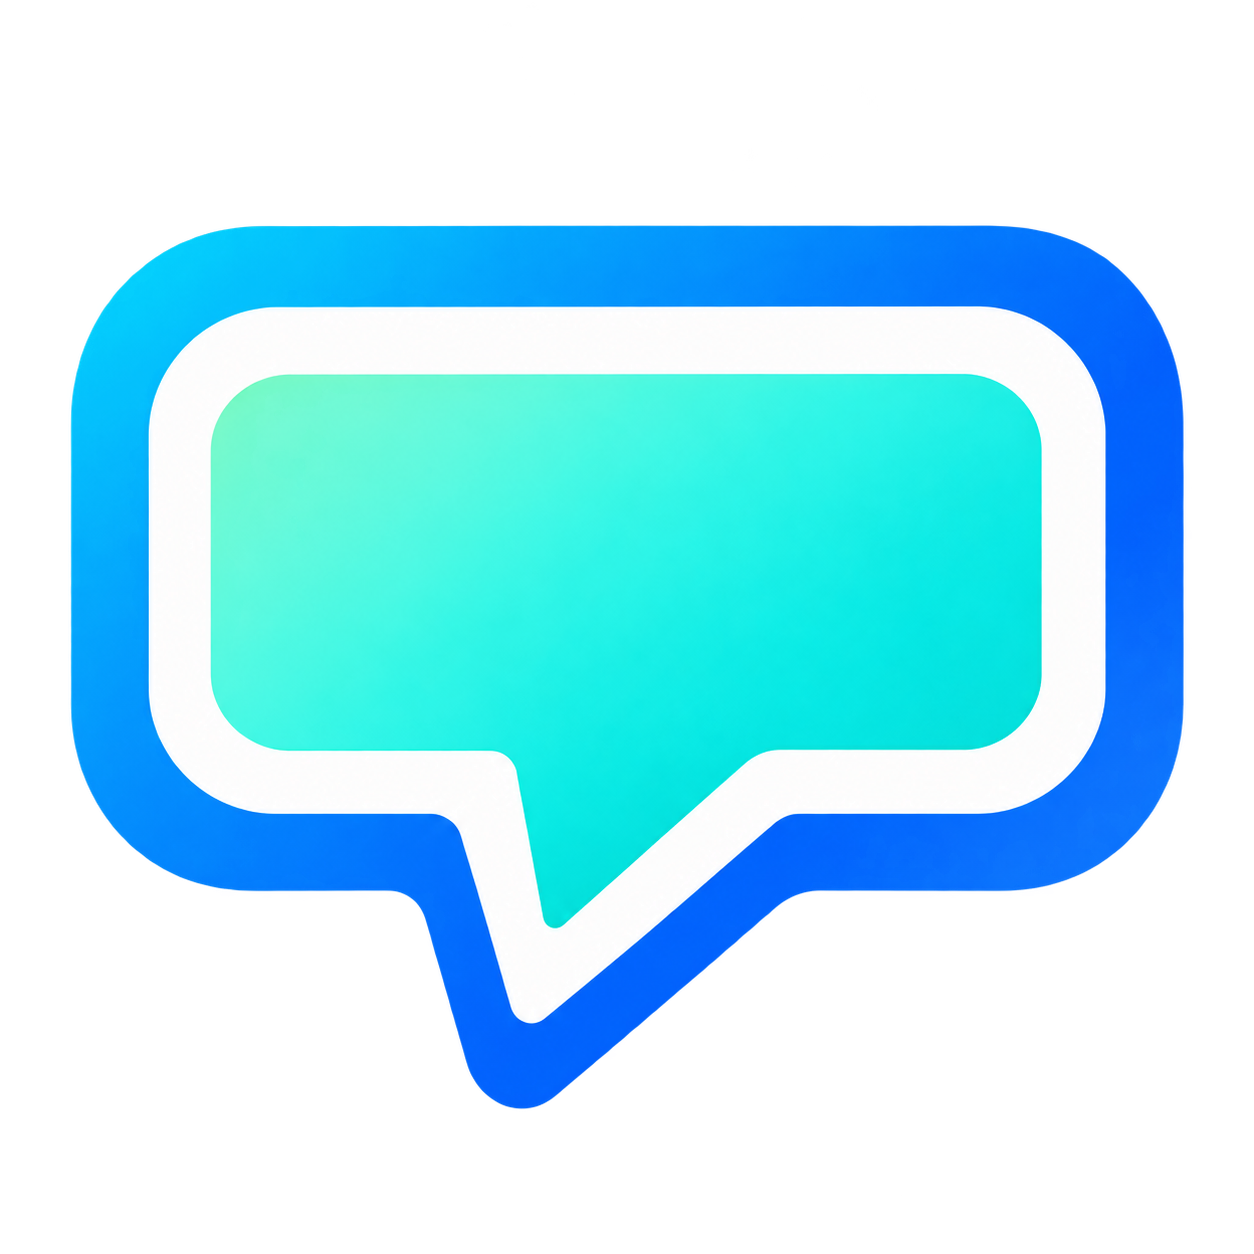
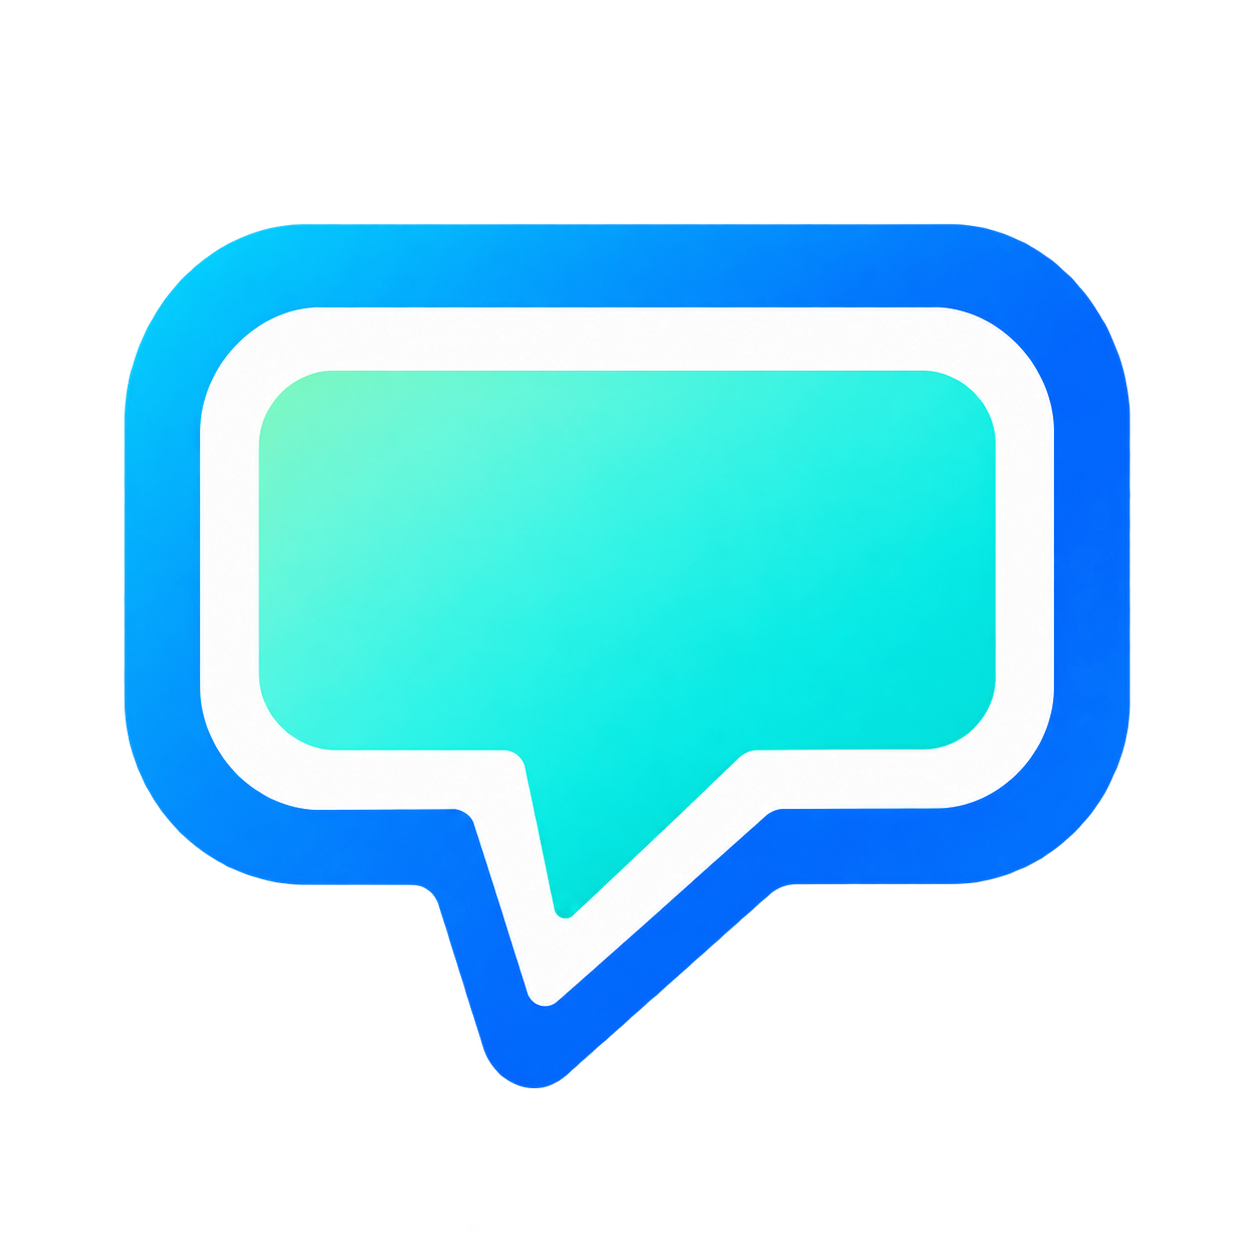
更改图标、修复测试中的滚动后未完全结束立刻测选中的问题、更新README

diff --git a/tests/app.spec.ts b/tests/app.spec.ts
@@ -59,6 +59,16 @@ async function selectText(page: Page, text: string, occurrence = 0) {
     );
   await page.getByRole("button", { name: "创建侧边对话" }).click();
 }
+async function setScrollTop(page: Page, selector: string, top: number) {
+  await page.locator(selector).evaluate(async (el, top) => {
+    if (el.scrollTop === top) return;
+
+    await new Promise<void>((resolve) => {
+      el.addEventListener("scroll", () => resolve(), { once: true });
+      el.scrollTop = top;
+    });
+  }, top);
+}
 test("real flow: render, side context, protected edits, branching, tree and reload", async ({
   page,
 }) => {
@@ -566,7 +576,7 @@ test("long main, sidebar and conversation list stay scrollable with visible comp
     expect(box!.y + box!.height).toBeLessThan(size.height);
   }
   await page.setViewportSize({ width: 1440, height: 900 });
-  await page.locator(".main-scroll").evaluate((el) => (el.scrollTop = 0));
+  await setScrollTop(page, ".main-scroll", 0);
   await selectText(page, "第 0 段");
   const side = page.locator(".side-scroll");
   expect(await side.evaluate((el) => el.scrollHeight > el.clientHeight)).toBe(
@@ -676,7 +686,7 @@ test("selection action dismisses on outside click, collapse, scroll and Escape",
     "可以选中",
   );
   const select = async () => {
-    await page.locator(".main-scroll").evaluate((el) => (el.scrollTop = 0));
+    await setScrollTop(page, ".main-scroll", 0);
     await page
       .locator(".main-panel .message.assistant .markdown")
       .evaluate((root) => {
@@ -1018,55 +1028,78 @@ test("composer grows to a cap and shrinks with the draft", async ({ page }) => {
   await input.fill("一行内容\n".repeat(50));
   const height = (await input.boundingBox())!.height;
   expect(height).toBeLessThanOrEqual(240);
-  expect(await input.evaluate(el => el.scrollHeight > el.clientHeight)).toBe(true);
+  expect(await input.evaluate((el) => el.scrollHeight > el.clientHeight)).toBe(
+    true,
+  );
   await input.fill("");
   expect((await input.boundingBox())!.height).toBe(initial);
   const model = page.getByRole("button", { name: "模型与思考档位" });
   await model.click();
   await expect(model).toHaveAttribute("aria-expanded", "true");
   await page.waitForTimeout(200);
-  expect(await model.locator("svg").evaluate(el => getComputedStyle(el).transform)).not.toBe("none");
+  expect(
+    await model.locator("svg").evaluate((el) => getComputedStyle(el).transform),
+  ).not.toBe("none");
 });
 
-test("collapsed reasoning branch snapshot retains its visible position", async ({ page }) => {
-  await page.route("https://api.deepseek.com/**", route => route.fulfill({
-    contentType: "text/event-stream",
-    body: `data: ${JSON.stringify({ choices: [{ delta: { reasoning_content: "思考内容。\n\n".repeat(40), content: "回答正文。" } }] })}\n\ndata: [DONE]\n\n`,
-  }));
+test("collapsed reasoning branch snapshot retains its visible position", async ({
+  page,
+}) => {
+  await page.route("https://api.deepseek.com/**", (route) =>
+    route.fulfill({
+      contentType: "text/event-stream",
+      body: `data: ${JSON.stringify({ choices: [{ delta: { reasoning_content: "思考内容。\n\n".repeat(40), content: "回答正文。" } }] })}\n\ndata: [DONE]\n\n`,
+    }),
+  );
   await setup(page);
   await ask(page);
-  await page.locator(".main-panel .message.assistant").getByLabel("重新生成").click();
+  await page
+    .locator(".main-panel .message.assistant")
+    .getByLabel("重新生成")
+    .click();
   const toggle = page.getByRole("button", { name: "思考过程" });
   await toggle.click();
   await page.waitForTimeout(450);
   await toggle.click();
   await page.waitForTimeout(450);
-  const result = await page.getByLabel("上一个分支").evaluate((button: HTMLButtonElement) => {
-    const source = button.closest(".message")!;
-    const before = source.getBoundingClientRect().top;
-    button.click();
-    const snapshot = document.querySelector(".branch-transition-snapshot .message")!;
-    return {
-      before,
-      after: snapshot.getBoundingClientRect().top,
-      focused: snapshot.classList.contains("focused"),
-    };
-  });
+  const result = await page
+    .getByLabel("上一个分支")
+    .evaluate((button: HTMLButtonElement) => {
+      const source = button.closest(".message")!;
+      const before = source.getBoundingClientRect().top;
+      button.click();
+      const snapshot = document.querySelector(
+        ".branch-transition-snapshot .message",
+      )!;
+      return {
+        before,
+        after: snapshot.getBoundingClientRect().top,
+        focused: snapshot.classList.contains("focused"),
+      };
+    });
   expect(Math.abs(result.after - result.before)).toBeLessThan(1);
   expect(result.focused).toBe(false);
 });
-test("tree context menu follows the pointer and closes with motion", async ({ page }) => {
-  await page.route("https://api.deepseek.com/**", route => route.fulfill({
-    contentType: "text/event-stream", body: sse("树图定位测试"),
-  }));
+test("tree context menu follows the pointer and closes with motion", async ({
+  page,
+}) => {
+  await page.route("https://api.deepseek.com/**", (route) =>
+    route.fulfill({
+      contentType: "text/event-stream",
+      body: sse("树图定位测试"),
+    }),
+  );
   await setup(page);
   await ask(page);
   await page.getByRole("button", { name: "对话脉络", exact: true }).click();
-  const node = page.locator(".react-flow__node").filter({ hasText: "树图定位测试" });
+  const node = page
+    .locator(".react-flow__node")
+    .filter({ hasText: "树图定位测试" });
   await expect(node).toBeVisible();
   await page.waitForTimeout(300);
   const box = (await node.boundingBox())!;
-  const x = box.x + box.width / 2, y = box.y + box.height / 2;
+  const x = box.x + box.width / 2,
+    y = box.y + box.height / 2;
   await page.mouse.click(x, y, { button: "right" });
   const menu = page.getByRole("button", { name: "删除节点", exact: true });
   await expect(menu).toBeVisible();
@@ -1074,7 +1107,9 @@ test("tree context menu follows the pointer and closes with motion", async ({ pa
   const menuBox = (await menu.boundingBox())!;
   expect(Math.abs(menuBox.x - x)).toBeLessThan(2);
   expect(Math.abs(menuBox.y - y)).toBeLessThan(2);
-  await page.getByRole("button", { name: "关闭", exact: true }).evaluate((el: HTMLButtonElement) => el.click());
+  await page
+    .getByRole("button", { name: "关闭", exact: true })
+    .evaluate((el: HTMLButtonElement) => el.click());
   await expect(page.locator(".modal[data-state='closed']")).toBeAttached();
   await expect(page.getByRole("dialog")).toHaveCount(0);
 });

diff --git a/README.md b/README.md
@@ -1,18 +1,26 @@
 # Explore with LLM
 
-宽屏优先的个人 AI 对话工作区：主线分支、选区侧边提问、消息树和本地存储。使用 React、TypeScript、Vite，直接连接 DeepSeek API，无应用后端。
+<!-- 本 `README.md` 提供给使用与二次开发应用的用户阅读，Agent 不应将其当成纯开发文档 -->
 
-## 在线部署（不需要在电脑上构建）
+一个 AI 聊天项目，使用 React、TypeScript、Vite 构建。支持消息分支、侧边提问、在可视化树中预览全部分支。数据与 API Key 存储在浏览器本地。目前支持 DeepSeek API Key。
 
-1. 将本仓库内容放入自己的 GitHub 仓库，默认分支使用 `main` 或 `master`。
-2. 仓库 **Settings → Pages → Build and deployment → Source** 选择 **GitHub Actions**。
-3. 推送代码，或在 **Actions → Verify and deploy → Run workflow** 手动运行。
-4. 工作流会安装依赖、运行单元与浏览器测试、构建并发布。完成后在工作流的 `github-pages` 部署入口打开网站。
-5. 网页左下角打开 **模型与设置**，填写自己的 DeepSeek API Key 并保存，然后开始聊天。
+## 填入 API Key
 
-不需要 Repository Secrets，不需要将 API Key 写入 GitHub。相对资源路径同时支持 `https://<user>.github.io/` 与 `https://<user>.github.io/<repo>/`。如果使用其他分支，在 `.github/workflows/deploy.yml` 修改 `push.branches`，并允许该分支部署到 `github-pages` 环境。首次部署前需启用 Pages；仓库的账户方案需允许相应可见性的 Pages。
+网页左下角打开 **模型与设置**，填写自己的 DeepSeek API Key 并保存，然后开始聊天。
 
-## 使用
+## 开始使用
+
+在对话中选中文字，可进行侧边提问。
+
+编辑对话中的消息可以新建分支（亦可以选择仅覆盖）。重新生成回复默认会新建分支。
+
+在左上角**对话脉络**中可查看当前全部消息分支。双击消息可跳转到指定位置，右键消息可删除。
+
+在右侧边栏，右键侧边提问标题可以进行删除。
+
+## 开发
+
+### 用户操作逻辑
 
 - 主线：Enter 发送，Shift+Enter 换行。图片可选择、粘贴或拖入输入框。输入框中的模型菜单选择提供商与官方 `none / low / high / max` 思考档位。新建对话先进入空白页，首次发送才保存到列表。
 - 选中主线助手正文后，点击“创建侧边对话”。右侧按当前消息展示提问标签，同一选区可多次提问。
@@ -24,7 +32,7 @@
 - 所有删除需确认；删除整段会话只显示确认标题，递归删除消息或侧边提问时显示后代数量。中止或失败保留已有正文，无正文则回到待生成状态。
 - 系统消息显示在消息流顶部，通过消息的编辑按钮修改提示词，默认 `You are a helpful assistant.`。
 
-## 数据与请求
+### 数据与请求
 
 对话、图片、草稿、分支选择、标签选择以及可选记住的密钥保存在此站点来源下的 IndexedDB。未勾选记住的密钥只保存在当前页面内存。清除浏览器站点数据会删除这些内容；应用没有云端同步、导出或备份。更换域名/浏览器也不会带走历史。
 
@@ -32,7 +40,7 @@
 
 默认模型 `deepseek-flash`。提供商地址、名称、模型 ID 和密钥可自定义，但本版完整适配与验证范围为 DeepSeek 的 Chat Completions 协议。其他服务需要允许浏览器跨域访问并支持相应参数。选用不支持图片的模型时会显示提供商返回的错误。
 
-## 本地开发
+### 相关命令
 
 Node.js 24。
 
@@ -47,7 +55,7 @@ npm run build
 
 `PLAYWRIGHT_EXECUTABLE_PATH` 可指定现有 Chromium 可执行文件。生产构建输出在 `dist/`。
 
-## 实现
+### 实现
 
 - `src/model.ts`：树、上下文、删除和位置保护
 - `src/selection.ts`：渲染文字与源码选区映射
